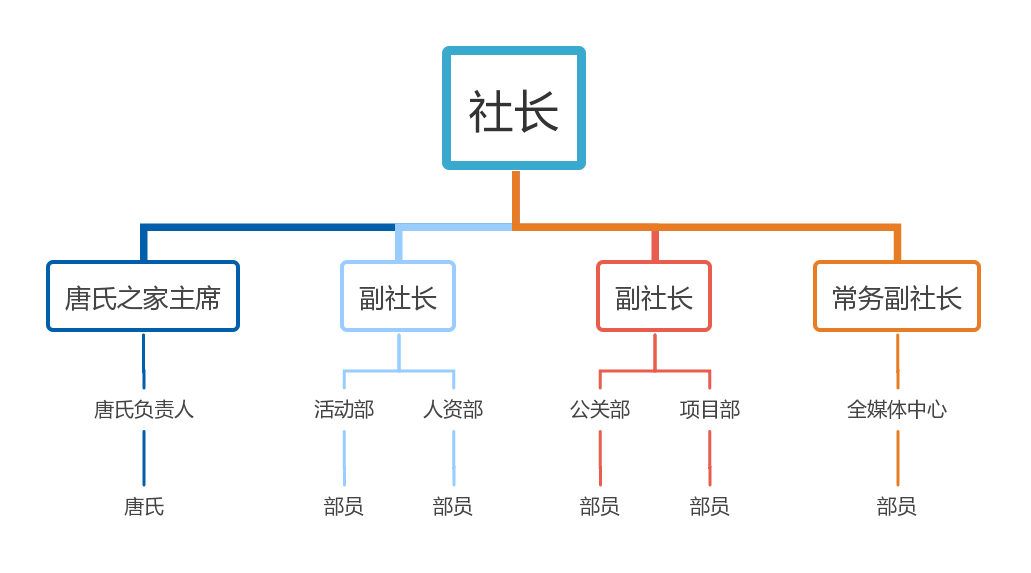
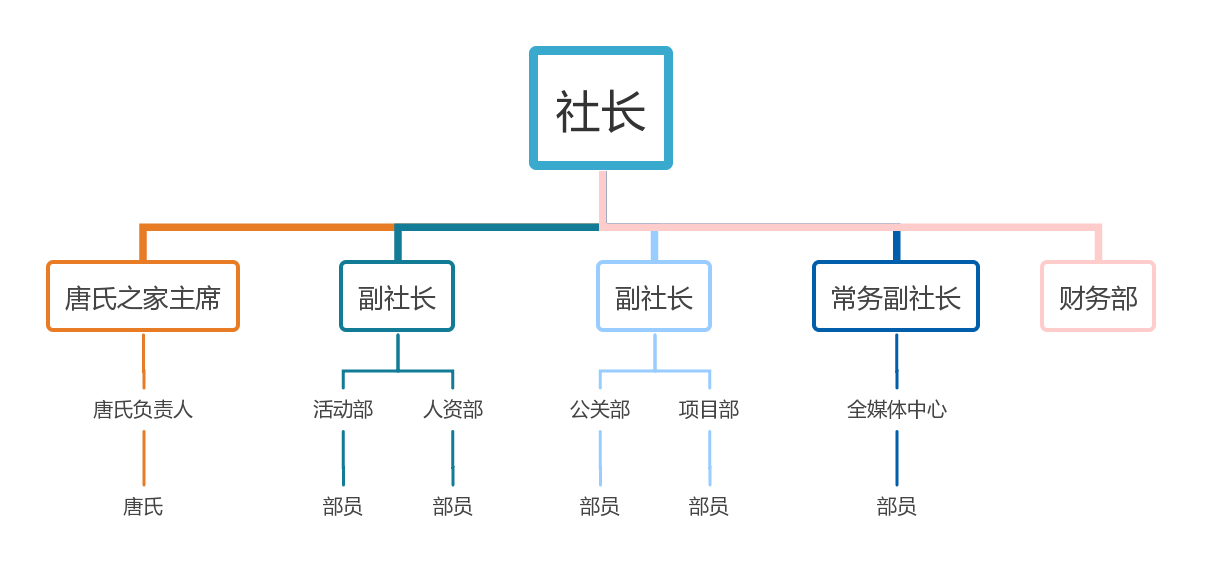
完成了“我们”栏目，没有添加“历史”时间轴

diff --git a/Us.html b/Us.html
@@ -18,7 +18,7 @@
     <link href="css/style.css" rel="stylesheet">
     <link href="css/color.css" rel="stylesheet">
     <link href="css/Activity.css" rel="stylesheet">
-    <script src="https://cdnjs.cloudflare.com/ajax/libs/particlesjs/2.2.1/particles.min.js"></script>
+	<script src="https://cdnjs.cloudflare.com/ajax/libs/particlesjs/2.2.1/particles.min.js"></script>
     <!--[if IE]>
     <script src="http://libs.useso.com/js/html5shiv/3.7/html5shiv.min.js"></script>
     <![endif]-->
@@ -131,14 +131,223 @@
 <!-- .cd-auto-hide-header -->
 
 
-<main style="background: white">
-    <h1>南京大学天健社</h1>
-    <h2>概况</h2>
-    <p>
-        南京大学天健社又名南京大学唐仲英爱心社，成立于2000年9月，直属南京大学学工处。最初成员为美籍华裔唐仲英先生设立的“唐仲英德育奖学金”获得者，他们有感于唐氏的厚德，取“天行健，君子自强不息”之意，自发成立天健社。自成立以来，天健人始终怀着一颗感恩的心，本着“得诸社会，还诸社会”的理念，以”服务社会，奉献爱心，推己及人，薪火相传”为宗旨，积极投入公益活动中。社内现有社员150多名，志愿者700多名，社内活动丰富多彩，校园公益、社会服务、内部建设各个方面都有序开展。
-    </p>
-</main>
+<link href='https://fonts.googleapis.com/css?family=Open+Sans:400italic,700italic,700,400&subset=latin,latin-ext' rel='stylesheet' type='text/css' />
+<style type='text/css'>html {overflow-x: initial !important;}#write, main { height: auto; }
+	#write, #write h1, #write h2, #write h3, #write h4, #write h5, #write h6, #write ol, #write p, #write ul { position: relative; }
+	#write, #write h1, #write h2, #write h3, #write h4, #write h5, #write h6, #write p, #write pre { width: inherit; }
+	.CodeMirror, .md-fences, table { text-align: left; }
+	.md-reset, a:active, a:hover { outline: 0px; }
+	.md-reset, .md-toc-item a { text-decoration: none; }
+	.MathJax_SVG, .md-reset { float: none; direction: ltr; }
+	:root { --bg-color:#ffffff; --text-color:#333333; }
+	html { font-size: 14px; background-color: var(--bg-color); color: var(--text-color); font-family: "Helvetica Neue", Helvetica, Arial, sans-serif; -webkit-font-smoothing: antialiased; }
+	main { margin: 0px; padding: 0px; bottom: 0px; top: 0px; left: 0px; right: 0px; font-size: 1rem; line-height: 1.42857; overflow-x: hidden; background: inherit; }
+	.in-text-selection, ::selection { background: rgb(181, 214, 252); text-shadow: none; }
+	#write { margin: 0px auto; word-break: normal; word-wrap: break-word; padding-bottom: 70px; white-space: pre-wrap; overflow-x: visible; }
+	.for-image #write { padding-left: 8px; padding-right: 8px; }
+	main.typora-export { padding-left: 30px; padding-right: 30px; }
+	@media screen and (max-width: 500px) {
+		main.typora-export { padding-left: 0px; padding-right: 0px; }
+		.CodeMirror-sizer { margin-left: 0px !important; }
+		.CodeMirror-gutters { display: none !important; }
+	}
+	.typora-export #write { margin: 0px auto; }
+	#write > blockquote:first-child, #write > div:first-child, #write > ol:first-child, #write > p:first-child, #write > pre:first-child, #write > table:first-child, #write > ul:first-child { margin-top: 30px; }
+	#write li > table:first-child { margin-top: -20px; }
+	img { max-width: 100%; vertical-align: middle; }
+	button, input, select, textarea { color: inherit; font-style: inherit; font-variant: inherit; font-weight: inherit; font-stretch: inherit; font-size: inherit; line-height: inherit; font-family: inherit; }
+	input[type="checkbox"], input[type="radio"] { line-height: normal; padding: 0px; }
+	*, ::after, ::before { box-sizing: border-box; }
+	h1 { font-size: 2rem; }
+	h2 { font-size: 1.8rem; }
+	h3 { font-size: 1.6rem; }
+	h4 { font-size: 1.4rem; }
+	h5 { font-size: 1.2rem; }
+	h6 { font-size: 1rem; }
+	p { -webkit-margin-before: 1rem; -webkit-margin-after: 1rem; -webkit-margin-start: 0px; -webkit-margin-end: 0px; }
+	.typora-export p { white-space: normal; }
+	.mathjax-block { margin-top: 0px; margin-bottom: 0px; -webkit-margin-before: 0px; -webkit-margin-after: 0px; }
+	.hidden { display: none; }
+	.md-blockmeta { color: rgb(204, 204, 204); font-weight: 700; font-style: italic; }
+	a { cursor: pointer; }
+	sup.md-footnote { padding: 2px 4px; background-color: rgba(238, 238, 238, 0.7); color: rgb(85, 85, 85); border-radius: 4px; }
+	#write input[type="checkbox"] { cursor: pointer; width: inherit; height: inherit; }
+	#write > figure:first-child { margin-top: 16px; }
+	figure { overflow-x: auto; margin: -8px 0px 0px -8px; max-width: calc(100% + 16px); padding: 8px; }
+	tr { break-inside: avoid; break-after: auto; }
+	thead { display: table-header-group; }
+	table { border-collapse: collapse; border-spacing: 0px; width: 100%; overflow: auto; break-inside: auto; }
+	.CodeMirror-line, .md-fences { break-inside: avoid; }
+	table.md-table td { min-width: 80px; }
+	.CodeMirror-gutters { border-right: 0px; background-color: inherit; margin-right: 4px; }
+	.CodeMirror-placeholder { opacity: 0.3; }
+	.CodeMirror pre { padding: 0px 4px; }
+	.CodeMirror-lines { padding: 0px; }
+	div.hr:focus { cursor: none; }
+	pre { white-space: pre-wrap; }
+	.md-fences { font-size: 0.9rem; display: block; overflow: visible; white-space: pre; background: inherit; position: relative !important; }
+	.md-diagram-panel { width: 100%; margin-top: 10px; text-align: center; padding-top: 0px; padding-bottom: 8px; overflow-x: auto; }
+	.md-fences .CodeMirror.CodeMirror-wrap { top: -1.6em; margin-bottom: -1.6em; }
+	.md-fences.mock-cm { white-space: pre-wrap; }
+	.show-fences-line-number .md-fences { padding-left: 0px; }
+	.show-fences-line-number .md-fences.mock-cm { padding-left: 40px; }
+	.footnotes { opacity: 0.8; font-size: 0.9rem; padding-top: 1em; padding-bottom: 1em; }
+	.footnotes + .footnotes { margin-top: -1em; }
+	.md-reset { margin: 0px; padding: 0px; border: 0px; vertical-align: top; background: 0px 0px; text-shadow: none; position: static; width: auto; height: auto; white-space: nowrap; cursor: inherit; -webkit-tap-highlight-color: transparent; line-height: normal; font-weight: 400; text-align: left; box-sizing: content-box; }
+	.md-toc-inner, a img, img a { cursor: pointer; }
+	li div { padding-top: 0px; }
+	blockquote { margin: 1rem 0px; }
+	li .mathjax-block, li p { margin: 0.5rem 0px; }
+	li { margin: 0px; position: relative; }
+	blockquote > :last-child { margin-bottom: 0px; }
+	blockquote > :first-child { margin-top: 0px; }
+	.footnotes-area { color: rgb(136, 136, 136); margin-top: 0.714rem; padding-bottom: 0.143rem; white-space: nowrap; }
+	@media print {
+		main, html { border: 1px solid transparent; height: 99%; break-after: avoid; break-before: avoid; }
+		.typora-export * { -webkit-print-color-adjust: exact; }
+		h1, h2, h3, h4, h5, h6 { break-after: avoid-page; orphans: 2; }
+		p { orphans: 4; }
+		html.blink-to-pdf { font-size: 13px; }
+		.typora-export #write { padding-left: 1cm; padding-right: 1cm; padding-bottom: 0px; break-after: avoid; }
+		.typora-export #write::after { height: 0px; }
+		@page { margin: 20mm 0px; }
+	}
+	.footnote-line { margin-top: 0.714em; font-size: 0.7em; }
+	pre.md-meta-block { font-size: 0.8rem; min-height: 0.8rem; white-space: pre-wrap; background: rgb(204, 204, 204); display: block; overflow-x: hidden; }
+	p > img:only-child { display: block; margin: auto; }
+	.md-line > .md-image:only-child, p > .md-image:only-child { display: inline-block; width: 100%; text-align: center; }
+	.mathjax-block:not(:empty)::after, .md-toc-content::after, .md-toc::after { display: none; }
+	#write .MathJax_Display { margin: 0.8em 0px 0px; }
+	.mathjax-block { white-space: pre; overflow: hidden; width: 100%; }
+	p + .mathjax-block { margin-top: -1.143rem; }
+	[contenteditable="true"]:active, [contenteditable="true"]:focus { outline: 0px; box-shadow: none; }
+	.md-task-list-item { position: relative; list-style-type: none; }
+	.task-list-item.md-task-list-item { padding-left: 0px; }
+	.md-task-list-item > input { position: absolute; top: 0px; left: 0px; margin-left: -1.2em; margin-top: calc(1em - 10px); }
+	.math { font-size: 1rem; }
+	.md-toc { min-height: 3.58rem; position: relative; font-size: 0.9rem; border-radius: 10px; }
+	.MathJax_SVG, .mathjax-block .MathJax_SVG_Display { text-indent: 0px; max-width: none; max-height: none; min-height: 0px; }
+	.md-toc-content { position: relative; margin-left: 0px; }
+	.md-toc-item { display: block; color: rgb(65, 131, 196); }
+	.md-toc-inner:hover { }
+	.md-toc-inner { display: inline-block; }
+	.md-toc-h1 .md-toc-inner { margin-left: 0px; font-weight: 700; }
+	.md-toc-h2 .md-toc-inner { margin-left: 2em; }
+	.md-toc-h3 .md-toc-inner { margin-left: 4em; }
+	.md-toc-h4 .md-toc-inner { margin-left: 6em; }
+	.md-toc-h5 .md-toc-inner { margin-left: 8em; }
+	.md-toc-h6 .md-toc-inner { margin-left: 10em; }
+	@media screen and (max-width: 48em) {
+		.md-toc-h3 .md-toc-inner { margin-left: 3.5em; }
+		.md-toc-h4 .md-toc-inner { margin-left: 5em; }
+		.md-toc-h5 .md-toc-inner { margin-left: 6.5em; }
+		.md-toc-h6 .md-toc-inner { margin-left: 8em; }
+	}
+	a.md-toc-inner { font-size: inherit; font-style: inherit; font-weight: inherit; line-height: inherit; }
+	.footnote-line a:not(.reversefootnote) { color: inherit; }
+	.md-attr { display: none; }
+	.md-fn-count::after { content: "."; }
+	.md-tag { opacity: 0.5; }
+	code, pre, tt { font-family: var(--monospace); }
+	.md-comment { color: rgb(162, 127, 3); opacity: 0.8; font-family: var(--monospace); }
+	code { text-align: left; }
+	h1 .md-tag, h2 .md-tag, h3 .md-tag, h4 .md-tag, h5 .md-tag, h6 .md-tag { font-weight: initial; opacity: 0.35; }
+	a.md-print-anchor { border-width: initial !important; border-style: none !important; border-color: initial !important; display: inline-block !important; position: absolute !important; width: 1px !important; right: 0px !important; outline: 0px !important; background: 0px 0px !important; text-decoration: initial !important; text-shadow: initial !important; }
+	.md-inline-math .MathJax_SVG .noError { display: none !important; }
+	.mathjax-block .MathJax_SVG_Display { text-align: center; margin: 1em 0px; position: relative; min-width: 100%; width: auto; display: block !important; }
+	.MathJax_SVG_Display, .md-inline-math .MathJax_SVG_Display { width: auto; margin: inherit; display: inline-block !important; }
+	.MathJax_SVG .MJX-monospace { font-family: monospace; }
+	.MathJax_SVG .MJX-sans-serif { font-family: sans-serif; }
+	.MathJax_SVG { display: inline; font-style: normal; font-weight: 400; line-height: normal; zoom: 90%; text-align: left; text-transform: none; letter-spacing: normal; word-spacing: normal; word-wrap: normal; white-space: nowrap; min-width: 0px; border: 0px; padding: 0px; margin: 0px; }
+	.MathJax_SVG * { transition: none; }
+	.md-diagram-panel > svg, [lang="flow"] svg, [lang="mermaid"] svg { max-width: 100%; }
+	[lang="mermaid"] .node text { font-size: 1rem; }
+	table tr th { border-bottom: 0px; }
 
+
+	:root { --side-bar-bg-color: #fafafa; --control-text-color: #777; }
+	@font-face { font-family: "Open Sans"; font-style: normal; font-weight: normal; src: local("Open Sans Regular"), url("./github/400.woff") format("woff"); }
+	@font-face { font-family: "Open Sans"; font-style: italic; font-weight: normal; src: local("Open Sans Italic"), url("./github/400i.woff") format("woff"); }
+	@font-face { font-family: "Open Sans"; font-style: normal; font-weight: bold; src: local("Open Sans Bold"), url("./github/700.woff") format("woff"); }
+	@font-face { font-family: "Open Sans"; font-style: italic; font-weight: bold; src: local("Open Sans Bold Italic"), url("./github/700i.woff") format("woff"); }
+	html { font-size: 16px; }
+	main { font-family: "Open Sans", "Clear Sans", "Helvetica Neue", Helvetica, Arial, sans-serif; color: rgb(51, 51, 51); line-height: 1.6; }
+	#write { max-width: 860px; margin: 0px auto; padding: 20px 30px 100px; }
+	#write > ul:first-child, #write > ol:first-child { margin-top: 30px; }
+	main > :first-child { margin-top: 0px !important; }
+	main > :last-child { margin-bottom: 0px !important; }
+	a { color: rgb(65, 131, 196); }
+	h1, h2, h3, h4, h5, h6 { position: relative; margin-top: 1rem; margin-bottom: 1rem; font-weight: bold; line-height: 1.4; cursor: text; }
+	h1:hover a.anchor, h2:hover a.anchor, h3:hover a.anchor, h4:hover a.anchor, h5:hover a.anchor, h6:hover a.anchor { text-decoration: none; }
+	h1 tt, h1 code { font-size: inherit; }
+	h2 tt, h2 code { font-size: inherit; }
+	h3 tt, h3 code { font-size: inherit; }
+	h4 tt, h4 code { font-size: inherit; }
+	h5 tt, h5 code { font-size: inherit; }
+	h6 tt, h6 code { font-size: inherit; }
+	h1 { padding-bottom: 0.3em; font-size: 2.25em; line-height: 1.2; border-bottom: 1px solid rgb(238, 238, 238); }
+	h2 { padding-bottom: 0.3em; font-size: 1.75em; line-height: 1.225; border-bottom: 1px solid rgb(238, 238, 238); }
+	h3 { font-size: 1.5em; line-height: 1.43; }
+	h4 { font-size: 1.25em; }
+	h5 { font-size: 1em; }
+	h6 { font-size: 1em; color: rgb(119, 119, 119); }
+	p, blockquote, ul, ol, dl, table { margin: 0.8em 0px; }
+	li > ol, li > ul { margin: 0px; }
+	hr { height: 4px; padding: 0px; margin: 16px 0px; background-color: rgb(231, 231, 231); border-width: 0px 0px 1px; border-style: none none solid; border-top-color: initial; border-right-color: initial; border-left-color: initial; border-image: initial; overflow: hidden; box-sizing: content-box; border-bottom-color: rgb(221, 221, 221); }
+	main > h2:first-child { margin-top: 0px; padding-top: 0px; }
+	main > h1:first-child { margin-top: 0px; padding-top: 0px; }
+	main > h1:first-child + h2 { margin-top: 0px; padding-top: 0px; }
+	main > h3:first-child, main > h4:first-child, main > h5:first-child, main > h6:first-child { margin-top: 0px; padding-top: 0px; }
+	a:first-child h1, a:first-child h2, a:first-child h3, a:first-child h4, a:first-child h5, a:first-child h6 { margin-top: 0px; padding-top: 0px; }
+	h1 p, h2 p, h3 p, h4 p, h5 p, h6 p { margin-top: 0px; }
+	li p.first { display: inline-block; }
+	ul, ol { padding-left: 30px; }
+	ul:first-child, ol:first-child { margin-top: 0px; }
+	ul:last-child, ol:last-child { margin-bottom: 0px; }
+	blockquote { border-left: 4px solid rgb(221, 221, 221); padding: 0px 15px; color: rgb(119, 119, 119); }
+	blockquote blockquote { padding-right: 0px; }
+	table { padding: 0px; word-break: initial; }
+	table tr { border-top: 1px solid rgb(204, 204, 204); margin: 0px; padding: 0px; }
+	table tr:nth-child(2n) { background-color: rgb(248, 248, 248); }
+	table tr th { font-weight: bold; border-width: 1px 1px 0px; border-top-style: solid; border-right-style: solid; border-left-style: solid; border-top-color: rgb(204, 204, 204); border-right-color: rgb(204, 204, 204); border-left-color: rgb(204, 204, 204); border-image: initial; border-bottom-style: initial; border-bottom-color: initial; text-align: left; margin: 0px; padding: 6px 13px; }
+	table tr td { border: 1px solid rgb(204, 204, 204); text-align: left; margin: 0px; padding: 6px 13px; }
+	table tr th:first-child, table tr td:first-child { margin-top: 0px; }
+	table tr th:last-child, table tr td:last-child { margin-bottom: 0px; }
+	.CodeMirror-gutters { border-right: 1px solid rgb(221, 221, 221); }
+	.md-fences, code, tt { border: 1px solid rgb(221, 221, 221); background-color: rgb(248, 248, 248); border-radius: 3px; font-family: Consolas, "Liberation Mono", Courier, monospace; padding: 2px 4px 0px; font-size: 0.9em; }
+	.md-fences { margin-bottom: 15px; margin-top: 15px; padding: 8px 1em 6px; }
+	.md-task-list-item > input { margin-left: -1.3em; }
+	@media screen and (min-width: 914px) {
+	}
+	@media print {
+		html { font-size: 13px; }
+		table, pre { break-inside: avoid; }
+		pre { word-wrap: break-word; }
+	}
+	.md-fences { background-color: rgb(248, 248, 248); }
+	#write pre.md-meta-block { padding: 1rem; font-size: 85%; line-height: 1.45; background-color: rgb(247, 247, 247); border: 0px; border-radius: 3px; color: rgb(119, 119, 119); margin-top: 0px !important; }
+	.mathjax-block > .code-tooltip { bottom: 0.375rem; }
+	#write > h3.md-focus::before { left: -1.5625rem; top: 0.375rem; }
+	#write > h4.md-focus::before { left: -1.5625rem; top: 0.285714rem; }
+	#write > h5.md-focus::before { left: -1.5625rem; top: 0.285714rem; }
+	#write > h6.md-focus::before { left: -1.5625rem; top: 0.285714rem; }
+	.md-image > .md-meta { border-radius: 3px; font-family: Consolas, "Liberation Mono", Courier, monospace; padding: 2px 4px 0px; font-size: 0.9em; color: inherit; }
+	.md-tag { color: inherit; }
+	.md-toc { margin-top: 20px; padding-bottom: 20px; }
+	.sidebar-tabs { border-bottom: none; }
+	#typora-quick-open { border: 1px solid rgb(221, 221, 221); background-color: rgb(248, 248, 248); }
+	#typora-quick-open-item { background-color: rgb(250, 250, 250); border-color: rgb(254, 254, 254) rgb(229, 229, 229) rgb(229, 229, 229) rgb(238, 238, 238); border-style: solid; border-width: 1px; }
+	#md-notification::before { top: 10px; }
+	.on-focus-mode blockquote { border-left-color: rgba(85, 85, 85, 0.12); }
+	header, .context-menu, .megamenu-content, footer { font-family: "Segoe UI", Arial, sans-serif; }
+	.file-node-content:hover .file-node-icon, .file-node-content:hover .file-node-open-state { visibility: visible; }
+	.mac-seamless-mode #typora-sidebar { background-color: var(--side-bar-bg-color); }
+	.md-lang { color: rgb(180, 101, 77); }
+	.html-for-mac .context-menu { --item-hover-bg-color: #E6F0FE; }
+</style>
+<main class='typora-export' style="background: white">
+	<div  id='write'  class = 'is-node'><h1><a name='header-n0' class='md-header-anchor '></a>南京大学天健社</h1><h2><a name='header-n2' class='md-header-anchor '></a>概况</h2><p>南京大学天健社又名南京大学唐仲英爱心社，成立于2000年9月，直属南京大学学工处。最初成员为美籍华裔企业家唐仲英先生设立的“唐仲英德育奖学金”获得者，他们有感于唐氏的厚德，取“天行健，君子自强不息”之意，自发成立天健社。自成立以来，在<a href='http://www.tangfoundation.org.cn/'>唐仲英基金会</a>的支持下，天健人始终怀着一颗感恩的心，本着“得诸社会，还诸社会”的理念，以”<a style="color: orangered">服务社会，奉献爱心，推己及人，薪火相传</a>”为宗旨，积极投入公益活动中。社内现有社员150多名，志愿者700多名，社内活动丰富多彩，校园公益、社会服务、内部建设各个方面都有序开展。</p><div id="echarts-container" style="width: 100%;height:600px;"></div><h2><a name='header-n5' class='md-header-anchor '></a><br>组织架构</h2><p>天健社设有全媒体中心、活动、财务、项目、人资、公关6个部门，以及由奖学金获得者组成的 “唐氏之家”。</p><p><img src='img/%E5%A4%A9%E5%81%A5%E7%A4%BE%E7%BB%84%E7%BB%87%E6%9E%B6%E6%9E%84.png' alt='天健社组织架构' /></p><ul><li><a style="color: orangered">全媒体中心</a>负责社团所有活动线上线下各种形式的宣传和通讯稿的整理及图文资料的保存。</li><li><a style="color: orangered">活动部</a>主要负责活动策划和实施，重点是短期的创新型活动。</li><li><a style="color: orangered">项目部</a>主要负责运行社内已经成熟的精品项目并着力进行深度打磨，改进、完善已有项目。</li><li><a style="color: orangered">人资部</a>负责保证社团人力资源合理配置，以增强社团凝聚力、提高社团运行效率。</li><li><a style="color: orangered">公关部</a>对内促进社内各部门的沟通，对外联系校内外各爱心团体，探寻可以合作的项目。</li><li><a style="color: orangered">财务部</a>负责管理社团财务。</li><li><a style="color: orangered">唐氏之家</a>由每年“唐仲英德育奖学金”获得者组成。</li><h2><a name='header-n28' class='md-header-anchor '></a><br>唐仲英基金会</h2><p>唐仲英（1930～2018），1930年出生于江苏省苏州市吴江区盛泽镇，1950年赴美求学创业。1960年开始建厂，并于1964年独资创建了第一家钢铁服务中心，即“国际物资公司”。到1980年，在美国已拥有30多家大小企业，大多跟钢铁业相关，建立起“唐氏工业集团”。1982年，收购美国著名的麦克罗斯钢铁厂，从而使唐氏工业集团跻身于年销售额逾10亿美元的私营企业行列，唐先生亦被誉为“钢铁大王”。</p><p><img src='img/%E5%94%90%E4%BB%B2%E8%8B%B1%E5%85%88%E7%94%9F.jpg' alt='唐仲英先生' /></p><p>尽管商务缠身，唐先生仍不忘探索回馈社会之道。他认为，知识、健康和社会责任心是推动社会进步的三大要旨。为此，自1995年起，唐先生在美国先后创立了三个基金会：唐氏中药研究基金会、唐仲英基金会（中国）和唐仲英基金会（美国）。唐仲英基金会（中国）秉持“服务社会、奉献爱心、推己及人、薪火相传”的宗旨，自1996年开始在在中国高校设立“唐仲英德育奖学金”、在中学设立“唐仲英爱心奖学金”，通过各种公益活动提升青少年学生的民族责任感和社会责任心；资助高校科技发展、文化传承创新，资助医疗卫生项目，提升教育及医疗水平；开展农业援助，推广科教兴农示范，逐步改善农民生活。</p><p>唐仲英先生不仅是一位慈善家，同时也是一位教育家，他基于对高校实需求的深入了解以及对高等教育发展规律的准确把握，在过去的近二十年中屡次给予南京大学精准而有力的支持，持续助力着南京大学教育事业的稳步发展。多年来唐仲英基金会向南京大学捐赠累计近七千万元，助建<a href='https://vlssm.nju.edu.cn'>南京大学固体微结构国家重点实验室</a>，有力支持了南大基础设施、教学科研、师资队伍、学生培养等各项办学事业的开展。其中南京大学固体微结构国家重点实验室被美国科学情报研究所列为中国大陆实验室榜首。</p><img src="img/唐仲英楼.jpg"><p style="color:gray; text-align: center">图为南京大学鼓楼校区的唐仲英楼。</p><br><h2><a name='header-n63' class='md-header-anchor '></a>仲英青年学者</h2><p>唐仲英基金会（中国）自2016年开始，设立“仲英青年学者”项目，资助合作高校中具有“博士”学位、年龄在38岁以下、热心公益事业且学校认为需要重点培养的人才。每位“仲英青年学者”资助时间为三年，每人每年12万元，资助期内青年学者要承诺以己之长身体力行的从事公益活动，并协助基金会推动公益事业的发展。南京大学是唐仲英基金会首批设立该项目的十所高校之一，首次遴选名额为10名。与南大以往的人才支持计划不同，“仲英青年学者”除了教学和科研能力外，对获选者提出了更高的道德品质和参加社会公益活动的要求。 </p><p>“仲英青年学者”项目汇集了全国最优秀的一批青年学者。他们视野开阔、知识广博，富有活力与激情，让他们带领和指导学生等做好社会公益活动，特别是创新性公益活动，无论对年轻学者自身的全面发展和学生的成长成才，以及促进国家道德建设和社会公益事业发展，都具有深远的意义。</p><p><img src='img/%E8%A7%82%E5%BD%B1%E4%BC%9A.jpg' alt='观影会' /></p><p style="color:gray; text-align: center">图为艺术研究院的丁珊珊老师在开办观影会。</p><p>“仲英青年学者”项目与南大天健社的结对共建是南京大学在师生合作、教学相长、项目联动上的一次有益尝试。仲英青年学者们为天健社学生勤工俭学搭建桥梁，为学生在学习、生活等方面提供指导与帮助；天健社社员在学者们的带领下开展专业公益讲座和培训（如电影艺术讲座、急救常识培训）。有了这些优秀青年导师的加盟、指导，以及学校相关部门的支持，天健社的公益活动更加丰富和精彩，辐射校内校外更多受益人群，向唐仲英先生，向唐氏基金会，向全社会交出一份合格的答卷。</p><p><img src='img/%E6%99%BA%E8%80%85%E7%94%9F%E5%AD%98.jpg' alt='智者生存' /></p><p style="color:gray; text-align: center">图为医学院的王婷婷老师在带着天健社志愿者参与“智者生存”的医疗急救知识培训。</p>
+</main>
 
 <section id="footer">
     <p>
@@ -205,8 +414,108 @@
     </p>
 </section>
 
+<script type="text/javascript" src="http://echarts.baidu.com/gallery/vendors/echarts/echarts.min.js"></script>
+<script type="text/javascript" src="http://echarts.baidu.com/gallery/vendors/echarts-gl/echarts-gl.min.js"></script>
+<script type="text/javascript" src="http://echarts.baidu.com/gallery/vendors/echarts-stat/ecStat.min.js"></script>
+<script type="text/javascript" src="http://echarts.baidu.com/gallery/vendors/echarts/extension/dataTool.min.js"></script>
+<script type="text/javascript" src="http://echarts.baidu.com/gallery/vendors/echarts/map/js/china.js"></script>
+<script type="text/javascript" src="http://echarts.baidu.com/gallery/vendors/echarts/map/js/world.js"></script>
+<script type="text/javascript" src="http://api.map.baidu.com/api?v=2.0&ak=ZUONbpqGBsYGXNIYHicvbAbM"></script>
+<script type="text/javascript" src="http://echarts.baidu.com/gallery/vendors/echarts/extension/bmap.min.js"></script>
+<script type="text/javascript" src="http://echarts.baidu.com/gallery/vendors/simplex.js"></script>
 <script>
-    window.jQuery || document.write('<script src="js/jquery-1.11.0.min.js"><\/script>')
+	window.jQuery || document.write('<script src="js/jquery-1.11.0.min.js"><\/script>')
+</script>
+<script type="text/javascript">
+var dom = document.getElementById("echarts-container");
+var myChart = echarts.init(dom);
+var app = {};
+option = null;
+myChart.showLoading();
+
+$.get('assets/china.json', function (geoJson) {
+
+	myChart.hideLoading();
+
+	echarts.registerMap('China', geoJson);
+
+	myChart.setOption(option = {
+		title: {
+			text: '天健社第十九届社员地理分布',
+			x: 'center'
+		},
+		tooltip: {
+			trigger: 'item',
+			formatter: function(data){
+				if(!isNaN(data.value)){
+					return data.name + ": " + data.value + "人"
+				}
+			}
+			//formatter: '{b}: {c}人'
+		},
+		toolbox: {
+			show: true,
+			orient: 'vertical',
+			left: 'right',
+			top: 'center',
+			// feature: {
+			// 	dataView: {readOnly: false},
+			// 	restore: {},
+			// 	saveAsImage: {}
+			// }
+		},
+		visualMap: {
+			min: 1,
+			max: 40,
+			text:['High','Low'],
+			realtime: false,
+			calculable: true,
+			inRange: {
+				color: ['lightskyblue','yellow', 'orangered']
+			}
+		},
+		series: [
+			{
+				name: '天健社第十九届社员地理分布',
+				type: 'map',
+				mapType: 'China', // 自定义扩展图表类型
+				itemStyle:{
+					normal:{label:{show:true}},
+					emphasis:{label:{show:true}}
+				},
+				data:[
+					{name: '辽宁', value: 2},
+					{name: '湖南', value: 2},
+					{name: '山西', value: 12},
+					{name: '江苏', value: 40},
+					{name: '海南', value: 1},
+					{name: '安徽', value: 4},
+					{name: '黑龙江', value: 3},
+					{name: '内蒙古', value: 1},
+					{name: '广东', value: 4},
+					{name: '河南', value: 9},
+					{name: '云南', value: 2},
+					{name: '吉林', value: 1},
+					{name: '贵州', value: 3},
+					{name: '澳门', value: 1},
+					{name: '江西', value: 1},
+					{name: '北京', value: 1},
+					{name: '广西', value: 3},
+					{name: '河北', value: 1},
+					{name: '新疆', value: 3},
+					{name: '浙江', value: 1},
+					{name: '湖北', value: 2},
+					{name: '青海', value: 2},
+					{name: '台湾', value: 1},
+					{name: '甘肃', value: 1},
+				]
+			}
+		]
+	});
+});;
+if (option && typeof option === "object") {
+	myChart.setOption(option, true);
+}
 </script>
 <script src="js/bootstrap.min.js"></script>
 <script src="js/bootsnav.js"></script>
